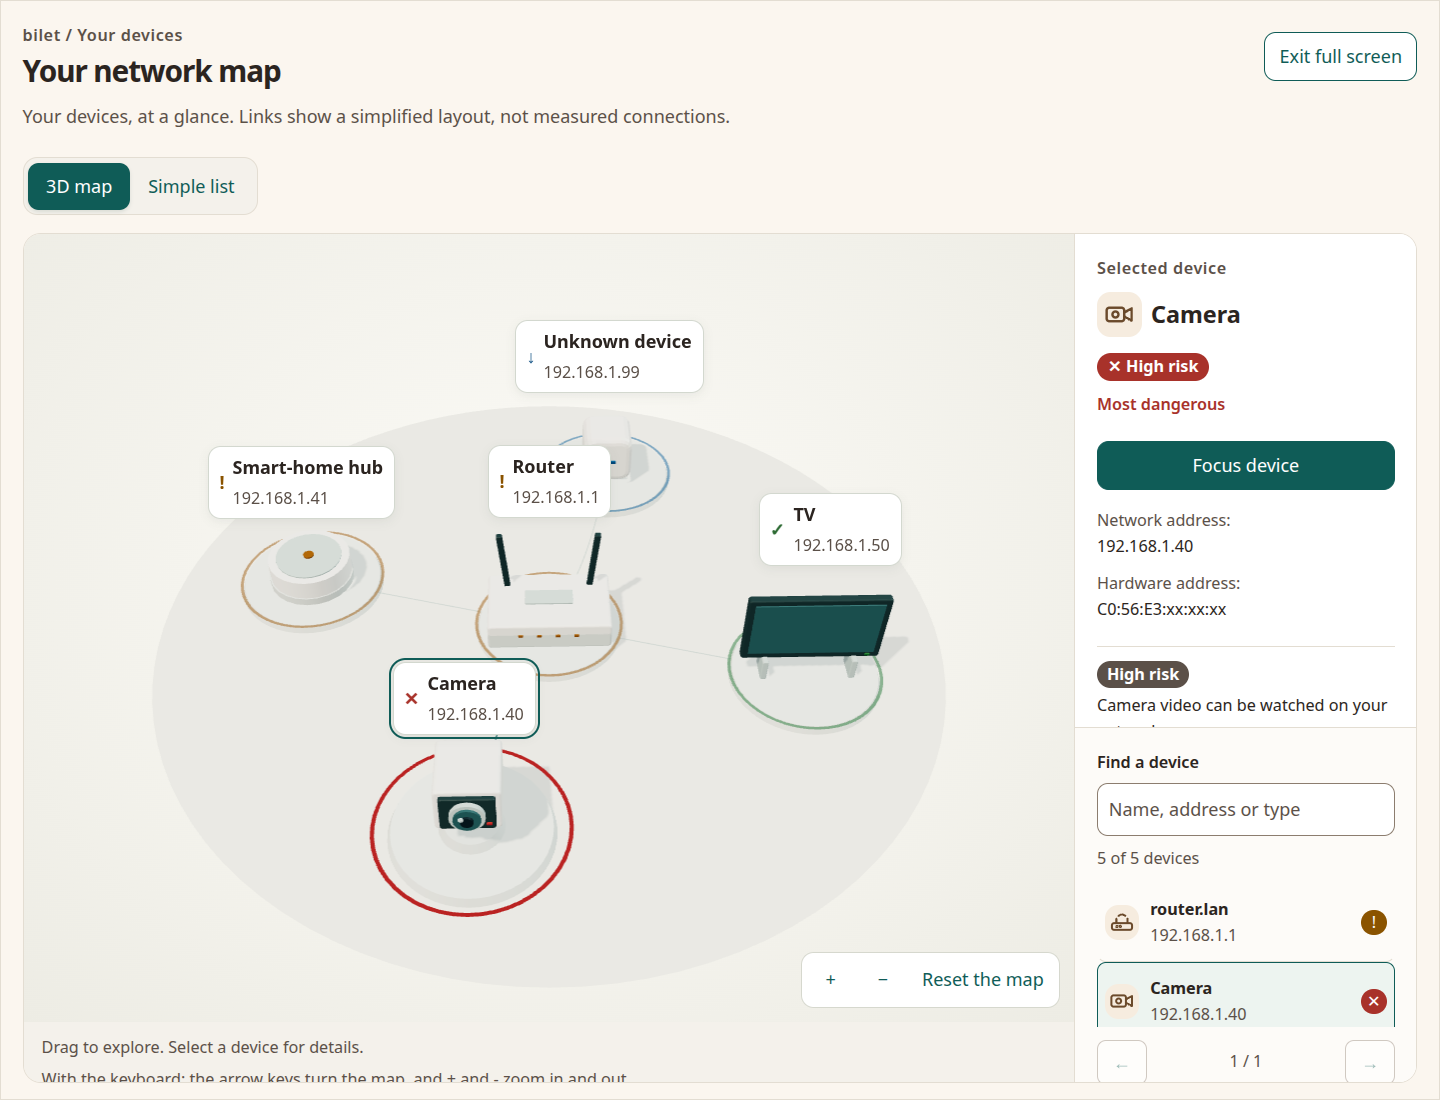
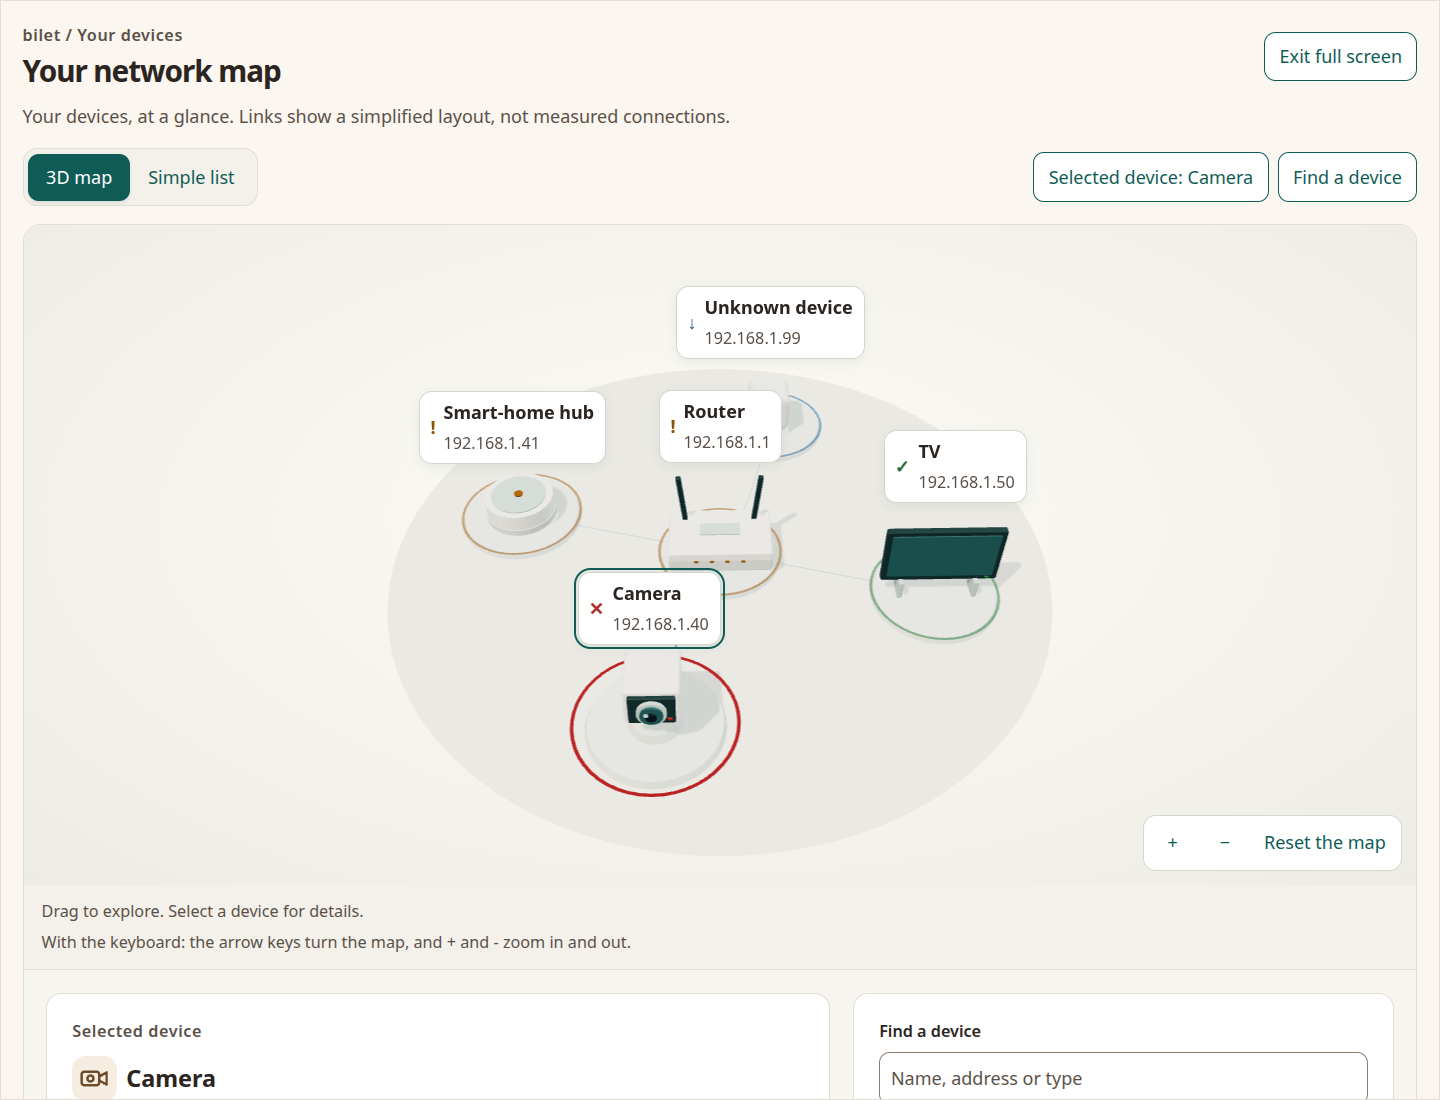
Replace cramped map sidebar with full-width map and spacious information cards

diff --git a/src/tool/web/static/netmap.css b/src/tool/web/static/netmap.css
@@ -15,21 +15,29 @@ body:has(#network-map) > main > .first { max-width: 48rem; margin-inline: auto; 
   padding: .45rem 1rem; min-height: 2.6rem; }
 .netmap-switch button[aria-pressed="true"] { background: #0f5c57; color: #ffffff;
   box-shadow: 0 2px 4px rgba(18, 56, 48, .12); }
-.netmap-workspace { display: grid; grid-template-columns: minmax(0, 1fr) 19rem;
+.netmap-workspace { display: block;
   border: 1px solid #e3ddd2; border-radius: 1rem; overflow: hidden; align-items: stretch; }
 .netmap-viewport { min-width: 0; display: flex; flex-direction: column; background: #f4f1eb; }
-.netmap-stage { height: 31rem; flex: 1; min-height: 26rem; border: 0; border-radius: 0;
+.netmap-stage { height: clamp(22rem, 55dvh, 32rem); flex: none; min-height: 0; border: 0; border-radius: 0;
   background: radial-gradient(ellipse at 50% 45%, #fcfbf7, #edece4); }
 .netmap-hint { padding: .75rem 1rem; margin: 0; color: #5b5048; font-size: .9rem; }
 .netmap-keys { display: block; margin-top: .3rem; }
-.netmap-sidebar { display: grid; grid-template-rows: minmax(0, 1fr) auto; min-width: 0; height: 39rem; overflow: hidden; border-left: 1px solid #e3ddd2;
-  background: #ffffff; scrollbar-width: thin; }
-.netmap-detail { min-height: 0; overflow-y: auto; margin: 0; border: 0; border-radius: 0; padding: 1.2rem; background: #ffffff; }
+.netmap-panels { display: grid; grid-template-columns: minmax(0, 1.45fr) minmax(19rem, 1fr);
+  align-items: start; gap: 1.25rem; padding: 1.25rem; border-top: 1px solid #e3ddd2; background: #f7f5f0; }
+.netmap-detail { min-width: 0; margin: 0; border: 1px solid #e3ddd2; border-radius: .85rem;
+  padding: 1.4rem; background: #ffffff; scroll-margin-block: 1rem; }
+.netmap-toolbar { display: flex; align-items: center; justify-content: space-between;
+  gap: .75rem; flex-wrap: wrap; margin-block: 1rem; }
+.netmap-toolbar .netmap-switch { margin: 0; }
+.netmap-panel-links { display: flex; gap: .5rem; flex-wrap: wrap; }
+.netmap-panel-links button { border: 1px solid #0f5c57; border-radius: .6rem; background: #fff;
+  color: #0f5c57; padding: .5rem .8rem; min-height: 2.75rem; cursor: pointer; }
+.netmap-detail:focus, .netmap-directory:focus { outline: 3px solid #0f5c57; outline-offset: 3px; }
 .netmap-detail h3 { font-size: 1.3rem; line-height: 1.25; gap: .5rem; margin: .6rem 0 .75rem; }
 .netmap-detail h3 .dev-icon { width: 1.8rem; height: 1.8rem; }
 .netmap-detail .lvl { font-size: .9rem; }
-.netmap-detail dl { display: block; margin: 1rem 0; font-size: .9rem; }
-.netmap-detail dt { color: #5b5048; font-weight: 400; margin-top: .6rem; }
+.netmap-detail dl { display: grid; grid-template-columns: minmax(0, 1fr) minmax(0, 1.5fr); gap: .5rem 1rem; margin: 1rem 0; font-size: .9rem; }
+.netmap-detail dt { color: #5b5048; font-weight: 400; margin: 0; }
 .netmap-detail dd { font-variant-numeric: tabular-nums; overflow-wrap: anywhere; word-break: normal; }
 .nm-priority { font-size: .9rem; font-weight: 600; color: #a8322a; margin: .6rem 0; }
 .netmap-detail .nm-findings { list-style: none; padding: 0; display: grid; gap: .75rem; }
@@ -41,16 +49,16 @@ body:has(#network-map) > main > .first { max-width: 48rem; margin-inline: auto; 
 .nm-focus-action, .netmap-fullscreen { min-height: 2.75rem; border: 1px solid #0f5c57;
   background: #ffffff; color: #0f5c57; border-radius: .65rem; padding: .45rem .8rem;
   cursor: pointer; font-weight: 600; }
-.nm-focus-action { margin-top: .7rem; background: #0f5c57; color: #ffffff; width: 100%; }
+.nm-focus-action { margin-top: .7rem; background: #0f5c57; color: #ffffff; width: auto; }
 .nm-detail-actions a { font-size: .9rem; }
 .netmap-fullscreen { white-space: nowrap; }
-.netmap-directory { padding: 1.2rem; border-top: 1px solid #e3ddd2; background: #fdfbf8; }
+.netmap-directory { min-width: 0; padding: 1.4rem; border: 1px solid #e3ddd2; border-radius: .85rem; background: #ffffff; scroll-margin-block: 1rem; }
 .netmap-directory label { font-size: .9rem; font-weight: 600; display: block; margin-bottom: .4rem; }
 .netmap-search { box-sizing: border-box; width: 100%; border: 1px solid #8c7d6f;
   border-radius: .6rem; padding: .6rem; min-height: 2.75rem; background: #ffffff; color: #2b2420; }
 .netmap-search::placeholder { color: #5b5048; opacity: 1; }
 .netmap-count { font-size: .9rem; margin: .6rem 0; }
-.netmap-results { list-style: none; padding: 0; margin: 0; max-height: 8rem; overflow: auto; }
+.netmap-results { list-style: none; padding: 0; margin: 0; }
 .nm-device-row { display: flex; align-items: center; gap: .6rem; width: 100%; text-align: left;
   padding: .7rem .4rem; border: 1px solid transparent; border-bottom-color: #e3ddd2;
   border-radius: .5rem; color: #2b2420; background: transparent; cursor: pointer; }
@@ -89,23 +97,23 @@ body:has(#network-map) > main > .first { max-width: 48rem; margin-inline: auto; 
 .netmap:fullscreen, .netmap.is-expanded { box-sizing: border-box; width: 100%; height: 100%;
   max-width: none; padding: 1.2rem; margin: 0; border-radius: 0; overflow: auto; background: #fbf6ef; }
 .netmap.is-expanded { position: fixed; inset: 0; z-index: 9999; height: 100dvh; }
-.netmap:fullscreen .netmap-workspace, .netmap.is-expanded .netmap-workspace { height: calc(100dvh - 14rem); min-height: 26rem; }
-.netmap:fullscreen .netmap-sidebar, .netmap.is-expanded .netmap-sidebar { height: 100%; }
-@media (max-width: 64rem) { .netmap-workspace { grid-template-columns: minmax(0, 1fr) 17rem; } }
+.netmap:fullscreen .netmap-stage, .netmap.is-expanded .netmap-stage { height: clamp(20rem, 60dvh, 42rem); }
+@media (max-width: 60rem) { .netmap-panels { grid-template-columns: minmax(0, 1fr); } }
 @media (max-width: 48rem) {
   body:has(#network-map) { padding: .85rem; }
   .netmap { padding: 1rem; }
   .netmap-heading { align-items: flex-start; gap: .5rem; }
   .netmap h2 { font-size: 1.4rem; }
   .netmap-fullscreen { font-size: .9rem; padding-inline: .6rem; }
-  .netmap-workspace { grid-template-columns: minmax(0, 1fr); }
-  .netmap-stage { flex: none; height: 24rem; min-height: 24rem; }
-  .netmap-sidebar { display: block; height: auto; border: 0; border-top: 1px solid #e3ddd2; max-height: none; }
-  .netmap-results { max-height: 13rem; }
-  .netmap:fullscreen .netmap-sidebar, .netmap.is-expanded .netmap-sidebar { height: auto; }
+  .netmap-stage { height: 24rem; }
+  .netmap-panels { padding: .7rem; gap: .7rem; }
+  .netmap-detail, .netmap-directory { padding: 1rem; }
+  .netmap-detail dl { display: block; }
+  .netmap-detail dt { margin-top: .6rem; }
+  .netmap-panel-links { width: 100%; }
+  .netmap-panel-links button { flex: 1; }
   .netmap-legend { display: block; }
   .netmap-legend ul { gap: .3rem; }
-  .netmap:fullscreen .netmap-workspace, .netmap.is-expanded .netmap-workspace { height: auto; }
   .netmap:fullscreen .netmap-stage, .netmap.is-expanded .netmap-stage { height: 50dvh; }
 }
 

diff --git a/src/tool/web/static/netmap.js b/src/tool/web/static/netmap.js
@@ -43,6 +43,9 @@ function start(data) {
   const previous = section.querySelector("[data-page=previous]");
   const next = section.querySelector("[data-page=next]");
   const pageInfo = section.querySelector(".netmap-page-info");
+  const panelLinks = section.querySelector(".netmap-panel-links");
+  const detailsShortcut = section.querySelector(".netmap-details-shortcut");
+  const searchShortcut = section.querySelector(".netmap-search-shortcut");
   const fullscreen = section.querySelector(".netmap-fullscreen");
   const icons = document.getElementById("netmap-icons");
   const T = data.text;
@@ -172,7 +175,10 @@ function start(data) {
     } else detail.append(el("p", { text: T.map_no_findings }));
     const actions = el("div", { className: "nm-detail-actions" });
     const focusButton = el("button", { type: "button", text: T.map_focus });
-    focusButton.addEventListener("click", () => focus(entry));
+    focusButton.addEventListener("click", () => {
+      focus(entry); stage.scrollIntoView({ block: "center", behavior: "instant" });
+      stage.focus({ preventScroll: true });
+    });
     const link = el("a", { href: `#${node.id}`, text: node.has_problems ? T.map_go_problems : T.map_go_device });
     link.addEventListener("click", async () => {
       if (document.fullscreenElement === section) await document.exitFullscreen();
@@ -193,6 +199,8 @@ function start(data) {
       edge.line.material.color.setHex(edge.entry === entry ? ACCENT : 0x7b9691);
       edge.line.material.opacity = edge.entry === entry ? 0.95 : 0.25;
     }
+    detailsShortcut.textContent = entry.node
+      ? `${T.map_selected}: ${entry.node.type_label}` : T.map_selected;
     showDetail(entry); renderDirectory();
     if (move) focus(entry);
     requestFrame();
@@ -219,7 +227,7 @@ function start(data) {
       ]);
       row.addEventListener("click", () => {
         select(entry, true);
-        if (window.matchMedia("(max-width: 48rem)").matches) detail.scrollIntoView({ block: "nearest", behavior: "instant" });
+        detail.scrollIntoView({ block: "nearest", behavior: "instant" });
       });
       results.append(el("li", {}, [row]));
     }
@@ -246,7 +254,10 @@ function start(data) {
       ]),
     ]);
     label.style.setProperty("--node-accent", `#${new THREE.Color(node ? COLOURS[node.level.key] : ACCENT).getHexString()}`);
-    label.addEventListener("click", () => select(entry, true));
+    label.addEventListener("click", () => {
+      select(entry, true); detail.scrollIntoView({ block: "nearest", behavior: "instant" });
+      detail.focus({ preventScroll: true });
+    });
     stage.append(label); entry.label = label;
   }
   const tools = el("div", { className: "netmap-tools" });
@@ -295,6 +306,13 @@ function start(data) {
     }
   });
 
+  detailsShortcut.addEventListener("click", () => {
+    detail.scrollIntoView({ block: "start", behavior: "instant" }); detail.focus({ preventScroll: true });
+  });
+  searchShortcut.addEventListener("click", () => {
+    directory.scrollIntoView({ block: "start", behavior: "instant" }); search.focus({ preventScroll: true });
+  });
+
   const pointers = new Map(); let downAt = null, pinch = 0, wheelZooms = false;
   stage.addEventListener("pointerleave", () => { wheelZooms = false; });
   canvas.addEventListener("pointerdown", e => {
@@ -321,7 +339,10 @@ function start(data) {
     raycaster.setFromCamera(new THREE.Vector2(2 * (e.clientX - r.left) / r.width - 1,
       1 - 2 * (e.clientY - r.top) / r.height), camera);
     const hit = raycaster.intersectObjects(pickables, false)[0];
-    if (hit) select(hit.object.userData.entry, true);
+    if (hit) {
+      select(hit.object.userData.entry, true);
+      detail.scrollIntoView({ block: "nearest", behavior: "instant" }); detail.focus({ preventScroll: true });
+    }
   }
   canvas.addEventListener("pointerup", e => {
     const click = pointers.size === 1 && downAt && Math.hypot(e.clientX - downAt.x, e.clientY - downAt.y) < 6;
@@ -404,7 +425,7 @@ function start(data) {
   canvas.addEventListener("webglcontextlost", e => { e.preventDefault(); show("list"); });
   function show(mode) {
     wrap.hidden = mode !== "3d"; list.hidden = mode === "3d";
-    fullscreen.hidden = mode !== "3d";
+    fullscreen.hidden = mode !== "3d"; panelLinks.hidden = mode !== "3d";
     for (const b of switcher.querySelectorAll("[data-view]")) b.setAttribute("aria-pressed", String(b.dataset.view === mode));
     if (mode === "3d") { resize(); requestFrame(); }
     else {

diff --git a/src/tool/web/templates/home.html b/src/tool/web/templates/home.html
@@ -89,9 +89,15 @@
         <button type="button" class="netmap-fullscreen" aria-pressed="false" hidden>{{ ui.map_fullscreen }}</button>
       </div>
       <p class="netmap-intro">{{ ui.map_intro }}</p>
+      <div class="netmap-toolbar">
       <div class="netmap-switch" role="group" aria-label="{{ ui.map_view_label }}" hidden>
         <button type="button" data-view="3d" aria-pressed="true">{{ ui.map_view_3d }}</button>
         <button type="button" data-view="list" aria-pressed="false">{{ ui.map_view_list }}</button>
+      </div>
+      <div class="netmap-panel-links" hidden>
+        <button type="button" class="netmap-details-shortcut" aria-controls="map-selected-panel">{{ ui.map_selected }}</button>
+        <button type="button" class="netmap-search-shortcut" aria-controls="map-device-directory">{{ ui.map_search }}</button>
+      </div>
       </div>
       <div class="netmap-3d" hidden>
         <div class="netmap-workspace">
@@ -99,9 +105,9 @@
             <div class="netmap-stage"></div>
             <p class="netmap-hint" id="map-instructions">{{ ui.map_how }} <span class="netmap-keys">{{ ui.map_keys }}</span></p>
           </div>
-          <aside class="netmap-sidebar" aria-label="{{ ui.map_inspector }}">
-            <div class="netmap-detail" aria-live="polite" aria-atomic="true"><p class="muted">{{ ui.map_pick }}</p></div>
-            <div class="netmap-directory" hidden>
+          <div class="netmap-panels" role="group" aria-label="{{ ui.map_inspector }}">
+            <div class="netmap-detail" id="map-selected-panel" tabindex="-1" aria-live="polite" aria-atomic="true"><p class="muted">{{ ui.map_pick }}</p></div>
+            <div class="netmap-directory" id="map-device-directory" tabindex="-1" hidden>
               <label for="map-search">{{ ui.map_search }}</label>
               <input type="search" class="netmap-search" id="map-search" placeholder="{{ ui.map_search_hint }}" autocomplete="off" aria-controls="map-device-results">
               <p class="netmap-count muted" role="status" aria-live="polite"></p>
@@ -112,7 +118,7 @@
                 <button type="button" data-page="next" aria-label="{{ ui.map_next }}">→</button>
               </div>
             </div>
-          </aside>
+          </div>
         </div>
       </div>
       <div class="netmap-list">

diff --git a/tests/test_web_map.py b/tests/test_web_map.py
@@ -247,3 +247,12 @@ def test_device_explorer_has_translated_controls_and_progressive_fallback(lang):
     assert '<div class="netmap-3d" hidden>' in page
     assert '<div class="netmap-list">' in page
     assert f'href="#{data["nodes"][0]["id"]}"' in page
+
+
+@pytest.mark.parametrize("lang", LANGS)
+def test_map_panel_shortcuts_have_focusable_destinations(lang):
+    page = client_for(SCAN).get("/", params={"lang": lang}).text
+    for target in ("map-selected-panel", "map-device-directory"):
+        assert f'aria-controls="{target}"' in page
+        assert f'id="{target}" tabindex="-1"' in page
+    assert 'class="netmap-panel-links" hidden' in page

diff --git a/docs/screenshots/173-map/README.md b/docs/screenshots/173-map/README.md
@@ -1,14 +1,19 @@
 # Network explorer QA (#173)
 
 Fixture-only Chromium checks, 7 November 2026. Desktop: 1440 × 1100;
-phone: 375 × 812. Software WebGL (SwiftShader), reduced-motion preference enabled.
+phone: 375 × 812. Additional layout assertions at 1366 × 768, 1280 × 800,
+1440 × 900 and 1024 × 768 verified no clipping or horizontal overflow. Software WebGL (SwiftShader), reduced-motion preference enabled.
 No real network was scanned. Device addresses/names are synthetic.
 
-- [Desktop](desktop.png): warm neutral device models and separate inspector/search panes.
+- [Desktop](desktop.png): full-width map with naturally sized device-detail and search cards below.
+- [Laptop, 1366 × 768](laptop-1366.png): full information without nested panel scrollbars.
 - [Phone, Romanian](phone.png): stacked panes, readable controls, no horizontal overflow.
 - [Fullscreen](fullscreen.png): native fullscreen keeps inspector and directory available.
 - [Selected device in a 250-device fixture](dense-selected.png): search for Device 237,
   select it, and focus its model. Ten directory rows per page, 25 pages before searching.
+
+Toolbar shortcuts focus the detail card or search; Focus device returns to the map.
+Both cards grow with their content, and all ten directory rows are visible per page.
 
 Browser assertions passed: native fullscreen enter/exit; denied-fullscreen expansion
 and Escape; forward keyboard focus wrapping; row selection retains keyboard focus;
